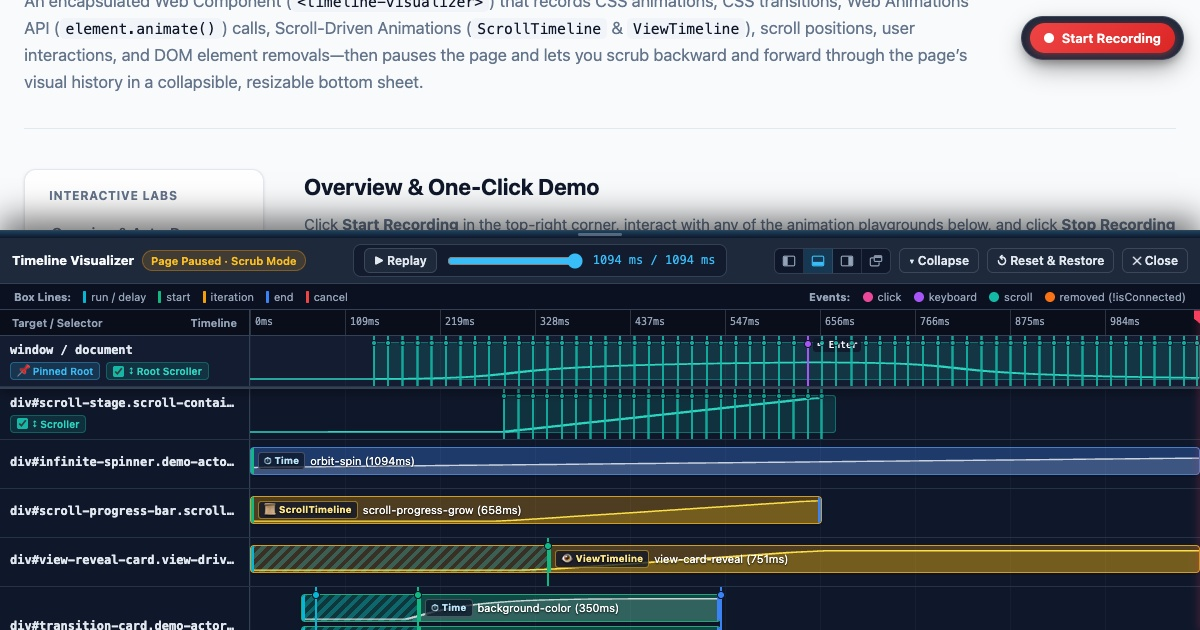
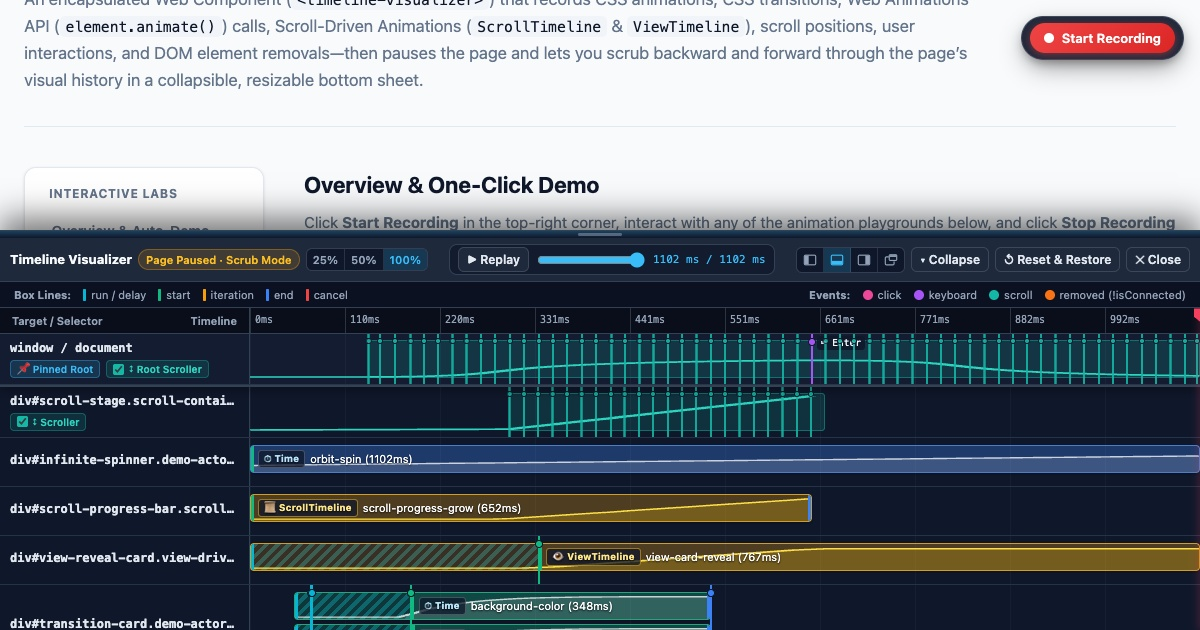
Playback speed

diff --git a/src/js/timeline-visualizer/components/timeline-visualizer.js b/src/js/timeline-visualizer/components/timeline-visualizer.js
@@ -323,8 +323,8 @@ const COMPONENT_STYLES = `
     display: flex;
     align-items: center;
     justify-content: space-between;
-    gap: 8px;
-    padding: 6px 12px;
+    gap: 6px;
+    padding: 6px 10px;
     background: var(--bg-panel-elevated);
     border-bottom: 1px solid var(--border-subtle);
     flex-shrink: 0;
@@ -336,7 +336,7 @@ const COMPONENT_STYLES = `
   .toolbar-right {
     display: flex;
     align-items: center;
-    gap: 8px;
+    gap: 6px;
     flex-wrap: wrap;
   }
 
@@ -352,7 +352,7 @@ const COMPONENT_STYLES = `
   .status-pill {
     font-size: 11px;
     font-weight: 600;
-    padding: 2px 8px;
+    padding: 2px 7px;
     border-radius: 999px;
     background: rgba(245, 158, 11, 0.16);
     color: #fbbf24;
@@ -362,11 +362,50 @@ const COMPONENT_STYLES = `
   .scrubber-controls {
     display: flex;
     align-items: center;
-    gap: 8px;
+    gap: 6px;
     background: rgba(15, 23, 42, 0.7);
-    padding: 3px 10px;
+    padding: 2px 8px;
     border-radius: 8px;
     border: 1px solid var(--border-subtle);
+  }
+
+  /* Playback Speed Multi-Button Chooser */
+  .speed-chooser {
+    display: inline-flex;
+    align-items: center;
+    background: #0f172a;
+    border: 1px solid rgba(148, 163, 184, 0.28);
+    border-radius: 6px;
+    overflow: hidden;
+  }
+
+  .speed-btn {
+    appearance: none;
+    border: none;
+    border-right: 1px solid rgba(148, 163, 184, 0.2);
+    background: transparent;
+    color: #94a3b8;
+    font-family: inherit;
+    font-size: 11px;
+    font-weight: 600;
+    padding: 4px 6px;
+    cursor: pointer;
+    line-height: 1.2;
+    transition: background-color 0.12s ease, color 0.12s ease;
+  }
+
+  .speed-btn:last-child {
+    border-right: none;
+  }
+
+  .speed-btn:hover {
+    background: rgba(51, 65, 85, 0.65);
+    color: #f8fafc;
+  }
+
+  .speed-btn.is-active {
+    background: rgba(56, 189, 248, 0.2);
+    color: #38bdf8;
   }
 
   /* Docking Position Icon Chooser */
@@ -387,7 +426,7 @@ const COMPONENT_STYLES = `
     background: transparent;
     color: #94a3b8;
     font-family: inherit;
-    padding: 5px 7px;
+    padding: 5px 6px;
     cursor: pointer;
     display: inline-flex;
     align-items: center;
@@ -458,7 +497,7 @@ const COMPONENT_STYLES = `
     background: #1e293b;
     color: #e2e8f0;
     border-radius: 6px;
-    padding: 4px 9px;
+    padding: 4px 8px;
     font-family: inherit;
     font-size: 12px;
     font-weight: 600;
@@ -484,16 +523,16 @@ const COMPONENT_STYLES = `
   }
 
   .scrubber-slider {
-    width: 136px;
+    width: 108px;
     accent-color: #38bdf8;
     cursor: pointer;
   }
 
   .time-readout {
     font-family: ui-monospace, SFMono-Regular, Menlo, Consolas, monospace;
-    font-size: 12px;
+    font-size: 11px;
     color: #38bdf8;
-    min-width: 112px;
+    min-width: 96px;
     text-align: right;
   }
 
@@ -1072,6 +1111,7 @@ export class TimelineVisualizer extends BaseHTMLElement {
     this.isCollapsed = false;
     this.currentScrubTime = 0;
     this.dockPosition = 'bottom';
+    this.playbackRate = 1;
 
     this._sheetHeightPx = 400;
     this._sheetWidthPx = 620;
@@ -1194,6 +1234,65 @@ export class TimelineVisualizer extends BaseHTMLElement {
       'data-testid': 'visualizer-status',
       textContent: 'Page Paused · Scrub Mode',
     });
+
+    // Playback Speed Multi-Button Chooser: 25% | 50% | 100% (default 100%)
+    this._speedBtn25 = h(
+      'button',
+      {
+        type: 'button',
+        className: 'speed-btn',
+        'data-testid': 'speed-btn-25',
+        'data-speed': '0.25',
+        'aria-label': '25% playback speed',
+        'aria-pressed': 'false',
+        title: '25% playback speed',
+        onClick: () => this.setPlaybackRate(0.25),
+      },
+      '25%'
+    );
+
+    this._speedBtn50 = h(
+      'button',
+      {
+        type: 'button',
+        className: 'speed-btn',
+        'data-testid': 'speed-btn-50',
+        'data-speed': '0.5',
+        'aria-label': '50% playback speed',
+        'aria-pressed': 'false',
+        title: '50% playback speed',
+        onClick: () => this.setPlaybackRate(0.5),
+      },
+      '50%'
+    );
+
+    this._speedBtn100 = h(
+      'button',
+      {
+        type: 'button',
+        className: 'speed-btn is-active',
+        'data-testid': 'speed-btn-100',
+        'data-speed': '1',
+        'aria-label': '100% playback speed',
+        'aria-pressed': 'true',
+        title: '100% playback speed',
+        onClick: () => this.setPlaybackRate(1),
+      },
+      '100%'
+    );
+
+    this._speedChooser = h(
+      'div',
+      {
+        className: 'speed-chooser',
+        role: 'group',
+        'aria-label': 'Playback speed',
+        'data-testid': 'speed-chooser',
+      },
+      this._speedBtn25,
+      this._speedBtn50,
+      this._speedBtn100
+    );
 
     this._playScrubBtn = h(
       'button',
@@ -1351,7 +1450,8 @@ export class TimelineVisualizer extends BaseHTMLElement {
         'div',
         { className: 'toolbar-left' },
         h('span', { className: 'toolbar-title', textContent: 'Timeline Visualizer' }),
-        this._statusPill
+        this._statusPill,
+        this._speedChooser
       ),
       h(
         'div',
@@ -2752,6 +2852,30 @@ export class TimelineVisualizer extends BaseHTMLElement {
     }
   }
 
+  /**
+   * Sets the timeline replay speed multiplier (0.25 for 25%, 0.5 for 50%, 1 for 100%).
+   *
+   * @param {number} rate
+   */
+  setPlaybackRate(rate) {
+    let num = Number(rate);
+    if (num > 1) num = num / 100;
+    const valid = num === 0.25 || num === 0.5 ? num : 1;
+    this.playbackRate = valid;
+
+    const buttons = [
+      [this._speedBtn25, 0.25],
+      [this._speedBtn50, 0.5],
+      [this._speedBtn100, 1],
+    ];
+    for (const [btn, speed] of buttons) {
+      if (!btn) continue;
+      const active = speed === valid;
+      btn.classList.toggle('is-active', active);
+      btn.setAttribute('aria-pressed', active ? 'true' : 'false');
+    }
+  }
+
   _toggleTimelineReplay() {
     if (this._playbackRafId) {
       this._stopTimelineReplay();
@@ -2759,20 +2883,22 @@ export class TimelineVisualizer extends BaseHTMLElement {
     }
 
     const duration = Math.max(1, this.store.duration || 1);
-    let startPlayAt = this.currentScrubTime >= duration - 10 ? 0 : this.currentScrubTime;
-    const playOriginWall = performance.now();
+    let currentPlayTime = this.currentScrubTime >= duration - 10 ? 0 : this.currentScrubTime;
+    let lastFrameWall = performance.now();
 
     this._playScrubBtn.textContent = '⏸ Pause';
 
     const step = () => {
-      const elapsed = performance.now() - playOriginWall;
-      const nextTime = startPlayAt + elapsed;
-      if (nextTime >= duration) {
+      const now = performance.now();
+      const dt = Math.max(0, now - lastFrameWall);
+      lastFrameWall = now;
+      currentPlayTime += dt * (this.playbackRate || 1);
+      if (currentPlayTime >= duration) {
         this.scrubToTime(duration);
         this._stopTimelineReplay();
         return;
       }
-      this.scrubToTime(nextTime);
+      this.scrubToTime(currentPlayTime);
       this._playbackRafId = requestAnimationFrame(step);
     };
 

diff --git a/tests/e2e/timeline-visualizer.test.js b/tests/e2e/timeline-visualizer.test.js
@@ -696,5 +696,72 @@ describe('<timeline-visualizer> End-to-End Browser Tests (Puppeteer + WebDriver 
     assert.equal(dockResult.popupClosedAfterReturn, true, 'Popup window should be closed after docking back');
     assert.equal(dockResult.collapseVisibleAgainInBottom, true, 'Collapse button should be visible again when docked back to bottom');
   });
+
+  it('provides a playback speed multi-button chooser (25%, 50%, 100%, default 100%) in the left of the top toolbar', async () => {
+    const speedResult = await page.evaluate(() => {
+      const visualizer = document.querySelector('timeline-visualizer');
+      const toolbarLeft = visualizer.shadowRoot.querySelector('.toolbar-left');
+      const chooser = visualizer._speedChooser;
+      const btn25 = visualizer._speedBtn25;
+      const btn50 = visualizer._speedBtn50;
+      const btn100 = visualizer._speedBtn100;
+
+      const inToolbarLeft = Boolean(toolbarLeft && chooser && toolbarLeft.contains(chooser));
+      const labels = [btn25?.textContent, btn50?.textContent, btn100?.textContent];
+      const defaultRate = visualizer.playbackRate;
+      const default100Active = Boolean(btn100?.classList.contains('is-active'));
+
+      btn25.click();
+      const rateAfter25 = visualizer.playbackRate;
+      const activeAfter25 = [
+        btn25.classList.contains('is-active'),
+        btn50.classList.contains('is-active'),
+        btn100.classList.contains('is-active'),
+      ];
+
+      btn50.click();
+      const rateAfter50 = visualizer.playbackRate;
+      const activeAfter50 = [
+        btn25.classList.contains('is-active'),
+        btn50.classList.contains('is-active'),
+        btn100.classList.contains('is-active'),
+      ];
+
+      btn100.click();
+      const rateAfter100 = visualizer.playbackRate;
+      const activeAfter100 = [
+        btn25.classList.contains('is-active'),
+        btn50.classList.contains('is-active'),
+        btn100.classList.contains('is-active'),
+      ];
+
+      return {
+        inToolbarLeft,
+        labels,
+        defaultRate,
+        default100Active,
+        rateAfter25,
+        activeAfter25,
+        rateAfter50,
+        activeAfter50,
+        rateAfter100,
+        activeAfter100,
+      };
+    });
+
+    assert.equal(speedResult.inToolbarLeft, true, 'Speed chooser should be inside .toolbar-left');
+    assert.deepEqual(speedResult.labels, ['25%', '50%', '100%']);
+    assert.equal(speedResult.defaultRate, 1);
+    assert.equal(speedResult.default100Active, true);
+
+    assert.equal(speedResult.rateAfter25, 0.25);
+    assert.deepEqual(speedResult.activeAfter25, [true, false, false]);
+
+    assert.equal(speedResult.rateAfter50, 0.5);
+    assert.deepEqual(speedResult.activeAfter50, [false, true, false]);
+
+    assert.equal(speedResult.rateAfter100, 1);
+    assert.deepEqual(speedResult.activeAfter100, [false, false, true]);
+  });
 });
 
